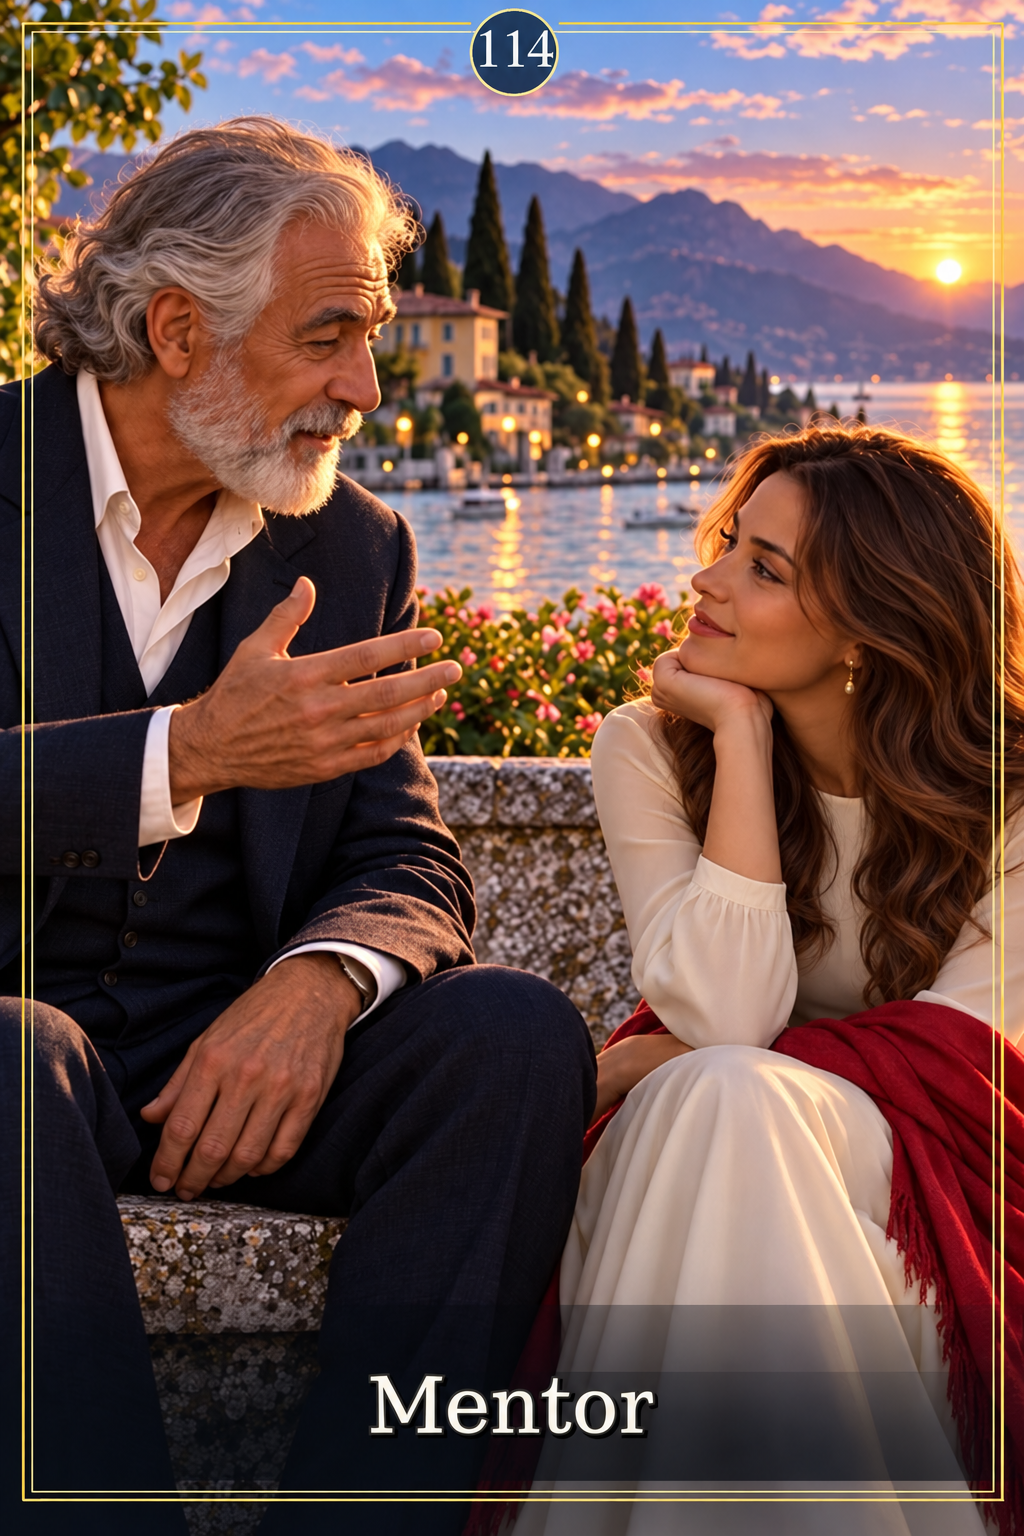
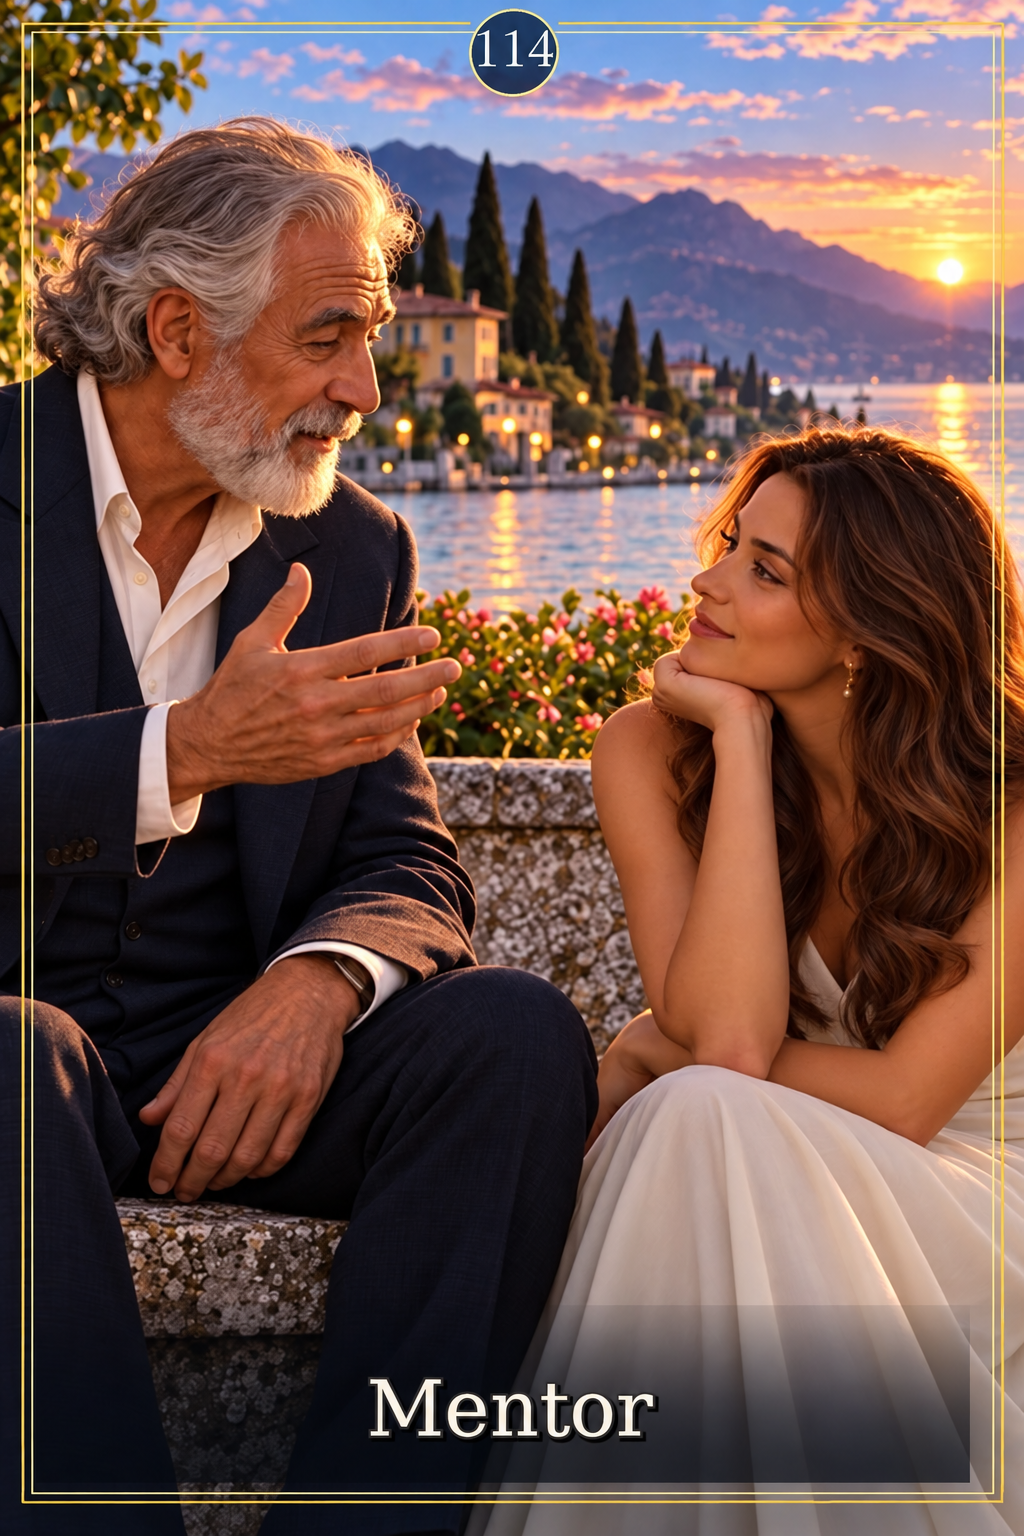
Publier les dernières versions harmonisées de trois cartes CRISTARIVA
Remplacer Inconnu(e) 106, Confident(e) 108 et Mentor 114 par les PNG créés le 1 octobre, sans modifier les lots harmonisés déjà publiés. Actualiser le service worker en v61 pour renouveler les images en cache.

diff --git a/service-worker.js b/service-worker.js
@@ -1,8 +1,8 @@
 /* CRISTARIVA — service worker v30 — récit professionnel développé.
    Force 22 arcanes majeurs + 56 arcanes mineurs HD sur PC et Android
    et recharge la planche validée complète des arcanes mineurs. */
-const CACHE_NAME='cristariva-v60-20260930-oracle-harmony-next-r1';
-const APP_VERSION='2026.09.30-oracle-harmony-next-r1';
+const CACHE_NAME='cristariva-v61-20261001-oracle-harmony-r2';
+const APP_VERSION='2026.10.01-oracle-harmony-r2';
 const SHELL=[
   './',
   './index.html',

diff --git a/index.html b/index.html
@@ -1543,7 +1543,7 @@ navigator.serviceWorker.addEventListener('message',event=>{
  if(event.data&&event.data.type==='CRISTARIVA_UPDATED')cristarivaRefreshOnce();
 });
 const cristarivaCheckUpdate=()=>navigator.serviceWorker.register(
- './service-worker.js?v=20260930-oracle-harmony-next-r1',
+ './service-worker.js?v=20261001-oracle-harmony-r2',
  {scope:'./',updateViaCache:'none'}
 ).then(reg=>{
  if(reg.waiting)reg.waiting.postMessage('SKIP_WAITING');
